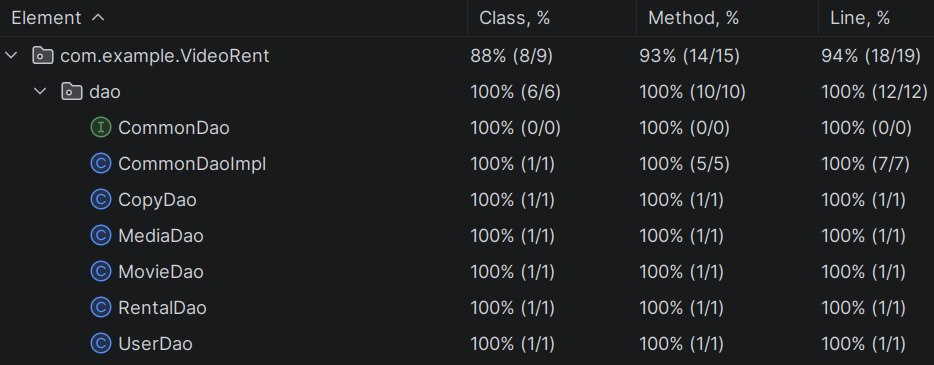
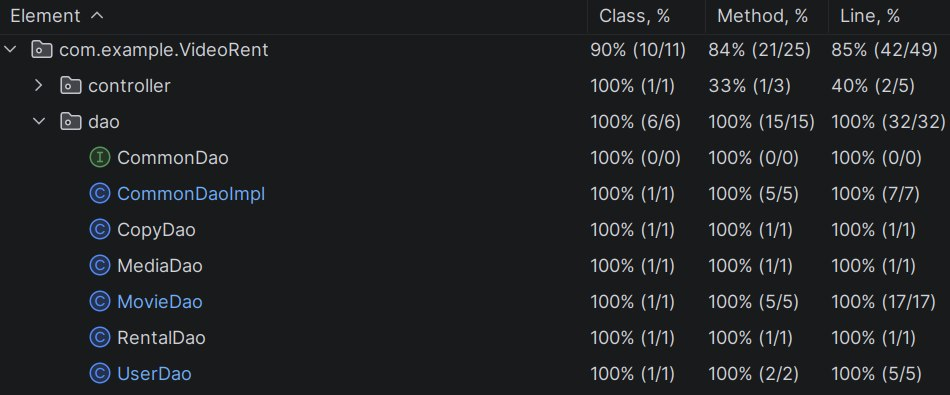
New methods in DAO. New controller and page.
Search methods were added to user and movie DAO classes.
Also tests were added for new methods.
User list page now available.

diff --git a/src/main/resources/templates/users.html b/src/main/resources/templates/users.html
@@ -1,0 +1,40 @@
+<!DOCTYPE html>
+<html xmlns:th="http://www.thymeleaf.org">
+<head>
+    <title>Users</title>
+    <link rel="stylesheet"
+          href="https://cdn.jsdelivr.net/npm/bootstrap@5.3.0/dist/css/bootstrap.min.css">
+</head>
+
+<body class="container">
+
+<h1 class="mt-3">Users list</h1>
+
+<table class="table table-striped mt-3">
+
+    <thead>
+    <tr>
+        <th>ID</th>
+        <th>Full Name</th>
+        <th>Phone</th>
+        <th>Address</th>
+        <th>Role</th>
+        <th>Blocked</th>
+    </tr>
+    </thead>
+
+    <tbody>
+    <tr th:each="user : ${users}">
+        <td th:text="${user.id}"></td>
+        <td th:text="${user.fullName}"></td>
+        <td th:text="${user.telephoneNumber}"></td>
+        <td th:text="${user.homeAddress}"></td>
+        <td th:text="${user.role}"></td>
+        <td th:text="${user.isBlocked}"></td>
+    </tr>
+    </tbody>
+
+</table>
+
+</body>
+</html>

diff --git a/src/test/java/com/example/VideoRent/dao/MovieDaoTest.java b/src/test/java/com/example/VideoRent/dao/MovieDaoTest.java
@@ -71,4 +71,84 @@ class MovieDaoTest {
 
         assertNull(movieDao.getById(id));
     }
+
+    @Test
+    void testFindByTitle() {
+
+        Movie movie = new Movie();
+        movie.setTitle("The Matrix");
+        movie.setFilmDirector("Wachowski");
+        movie.setDescription("sci-fi");
+        movie.setCompany("WB");
+        movie.setReleaseYear(1999);
+
+        movieDao.save(movie);
+
+        var result = movieDao.findByTitle("Matrix");
+
+        assertFalse(result.isEmpty());
+        assertTrue(result.get(0).getTitle().contains("Matrix"));
+    }
+
+    @Test
+    void testFindByYear() {
+
+        Movie movie = new Movie();
+        movie.setTitle("Interstellar");
+        movie.setFilmDirector("Nolan");
+        movie.setDescription("space");
+        movie.setCompany("WB");
+        movie.setReleaseYear(2014);
+
+        movieDao.save(movie);
+
+        var result = movieDao.findByYear(2014);
+
+        assertFalse(result.isEmpty());
+        assertEquals(2014, result.get(0).getReleaseYear());
+    }
+
+    @Test
+    void testFindByDirector() {
+
+        Movie movie = new Movie();
+        movie.setTitle("Matrix");
+        movie.setFilmDirector("Test");
+        movie.setDescription("desc");
+        movie.setCompany("WB");
+        movie.setReleaseYear(1999);
+
+        movieDao.save(movie);
+
+        var result = movieDao.findByDirector("Test");
+
+        assertFalse(result.isEmpty());
+        assertEquals("Test", result.get(0).getFilmDirector());
+    }
+
+    @Test
+    void testFindByCompany() {
+
+        Movie movie = new Movie();
+        movie.setTitle("Inception");
+        movie.setFilmDirector("Nolan");
+        movie.setDescription("desc");
+        movie.setCompany("Warner Bros");
+        movie.setReleaseYear(2010);
+
+        movieDao.save(movie);
+
+        var result = movieDao.findByCompany("Warner");
+
+        assertFalse(result.isEmpty());
+        assertTrue(result.get(0).getCompany().contains("Warner"));
+    }
+
+    @Test
+    void testFindByDirectorNotFound() {
+
+        var result = movieDao.findByDirector("Unknown");
+
+        assertTrue(result.isEmpty());
+    }
 }

diff --git a/src/main/java/com/example/VideoRent/dao/MovieDao.java b/src/main/java/com/example/VideoRent/dao/MovieDao.java
@@ -2,11 +2,40 @@ package com.example.VideoRent.dao;
 
 import com.example.VideoRent.entity.Movie;
 import org.springframework.stereotype.Repository;
+import java.util.List;
 
 @Repository
 public class MovieDao extends CommonDaoImpl<Movie, Long> {
 
     public MovieDao() {
         super(Movie.class);
+    }
+
+    public List<Movie> findByTitle(String title) {
+        return entityManager
+                .createQuery("SELECT m FROM Movie m WHERE LOWER(m.title) LIKE LOWER(:title)", Movie.class)
+                .setParameter("title", "%" + title + "%")
+                .getResultList();
+    }
+
+    public List<Movie> findByYear(Integer year) {
+        return entityManager
+                .createQuery("SELECT m FROM Movie m WHERE m.releaseYear = :year", Movie.class)
+                .setParameter("year", year)
+                .getResultList();
+    }
+
+    public List<Movie> findByDirector(String director) {
+        return entityManager
+                .createQuery("SELECT m FROM Movie m WHERE LOWER(m.filmDirector) LIKE LOWER(:director)", Movie.class)
+                .setParameter("director", "%" + director + "%")
+                .getResultList();
+    }
+
+    public List<Movie> findByCompany(String company) {
+        return entityManager
+                .createQuery("SELECT m FROM Movie m WHERE LOWER(m.company) LIKE LOWER(:company)", Movie.class)
+                .setParameter("company", "%" + company + "%")
+                .getResultList();
     }
 }

diff --git a/src/main/java/com/example/VideoRent/dao/CommonDaoImpl.java b/src/main/java/com/example/VideoRent/dao/CommonDaoImpl.java
@@ -3,15 +3,14 @@ package com.example.VideoRent.dao;
 import com.example.VideoRent.entity.CommonEntity;
 import jakarta.persistence.EntityManager;
 import jakarta.persistence.PersistenceContext;
-import org.springframework.stereotype.Repository;
 
-import java.util.Collection;
+import java.util.List;
 
 
 public class CommonDaoImpl<T extends CommonEntity<ID>, ID> implements CommonDao<T, ID> {
 
     @PersistenceContext
-    private EntityManager entityManager;
+    protected EntityManager entityManager;
 
     private Class<T> entityClass;
 
@@ -25,7 +24,7 @@ public class CommonDaoImpl<T extends CommonEntity<ID>, ID> implements CommonDao<
     }
 
     @Override
-    public Collection<T> getAll() {
+    public List<T> getAll() {
         return entityManager.createQuery("from " + entityClass.getSimpleName(), entityClass).getResultList();
     }
 

diff --git a/src/main/java/com/example/VideoRent/controller/UserController.java b/src/main/java/com/example/VideoRent/controller/UserController.java
@@ -1,0 +1,22 @@
+package com.example.VideoRent.controller;
+
+import com.example.VideoRent.service.UserService;
+import org.springframework.stereotype.Controller;
+import org.springframework.ui.Model;
+import org.springframework.web.bind.annotation.GetMapping;
+
+@Controller
+public class UserController {
+
+    private final UserService userService;
+
+    public UserController(UserService userService) {
+        this.userService = userService;
+    }
+
+    @GetMapping("/users")
+    public String usersPage(Model model) {
+        model.addAttribute("users", userService.getAllUsers());
+        return "users";
+    }
+}

diff --git a/src/test/java/com/example/VideoRent/dao/UserDaoTest.java b/src/test/java/com/example/VideoRent/dao/UserDaoTest.java
@@ -76,4 +76,23 @@ class UserDaoTest {
 
         assertNull(userDao.getById(id));
     }
+
+    @Test
+    void testFindByName() {
+
+        User user = new User();
+        user.setTelephoneNumber("555");
+        user.setFullName("Ivan Petrov");
+        user.setHomeAddress("addr");
+        user.setPasswordHash("hash");
+        user.setRole(Role.USER);
+        user.setIsBlocked(false);
+
+        userDao.save(user);
+
+        var result = userDao.findByName("Ivan");
+
+        assertFalse(result.isEmpty());
+        assertTrue(result.get(0).getFullName().contains("Ivan"));
+    }
 }

diff --git a/src/main/java/com/example/VideoRent/dao/UserDao.java b/src/main/java/com/example/VideoRent/dao/UserDao.java
@@ -2,11 +2,19 @@ package com.example.VideoRent.dao;
 
 import com.example.VideoRent.entity.User;
 import org.springframework.stereotype.Repository;
+import java.util.List;
 
 @Repository
 public class UserDao extends CommonDaoImpl<User, Long> {
 
     public UserDao() {
         super(User.class);
+    }
+
+    public List<User> findByName(String name) {
+        return entityManager
+                .createQuery("SELECT u FROM User u WHERE u.fullName LIKE :name", User.class)
+                .setParameter("name", "%" + name + "%")
+                .getResultList();
     }
 }

diff --git a/src/main/java/com/example/VideoRent/service/UserService.java b/src/main/java/com/example/VideoRent/service/UserService.java
@@ -5,7 +5,7 @@ import com.example.VideoRent.entity.User;
 import com.example.VideoRent.entity.Role;
 import org.springframework.stereotype.Service;
 import org.springframework.transaction.annotation.Transactional;
-
+import java.util.List;
 
 @Service
 public class UserService {
@@ -22,5 +22,9 @@ public class UserService {
         user.setIsBlocked(false);
 
         userDao.save(user);
+    }
+
+    public List<User> getAllUsers() {
+        return userDao.getAll();
     }
 }

diff --git a/src/main/java/com/example/VideoRent/dao/CommonDao.java b/src/main/java/com/example/VideoRent/dao/CommonDao.java
@@ -1,13 +1,13 @@
 package com.example.VideoRent.dao;
 
 import com.example.VideoRent.entity.CommonEntity;
-import java.util.Collection;
+import java.util.List;
 
 public interface CommonDao<T extends CommonEntity<ID>, ID> {
 
     T getById(ID id);
 
-    Collection<T> getAll();
+    List<T> getAll();
 
     void save(T entity);
 
